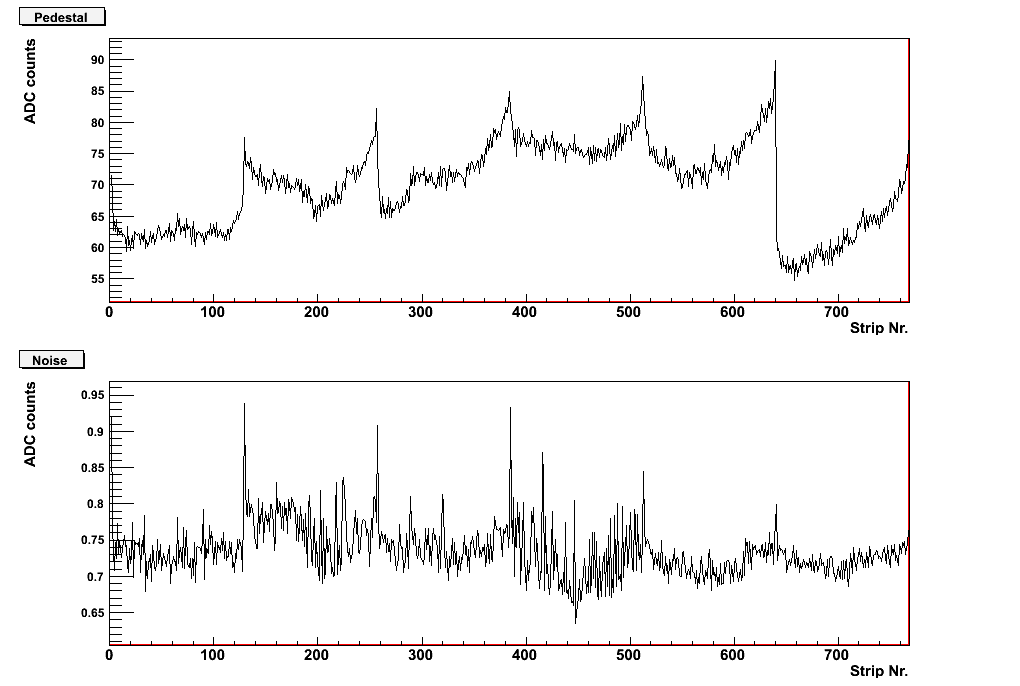
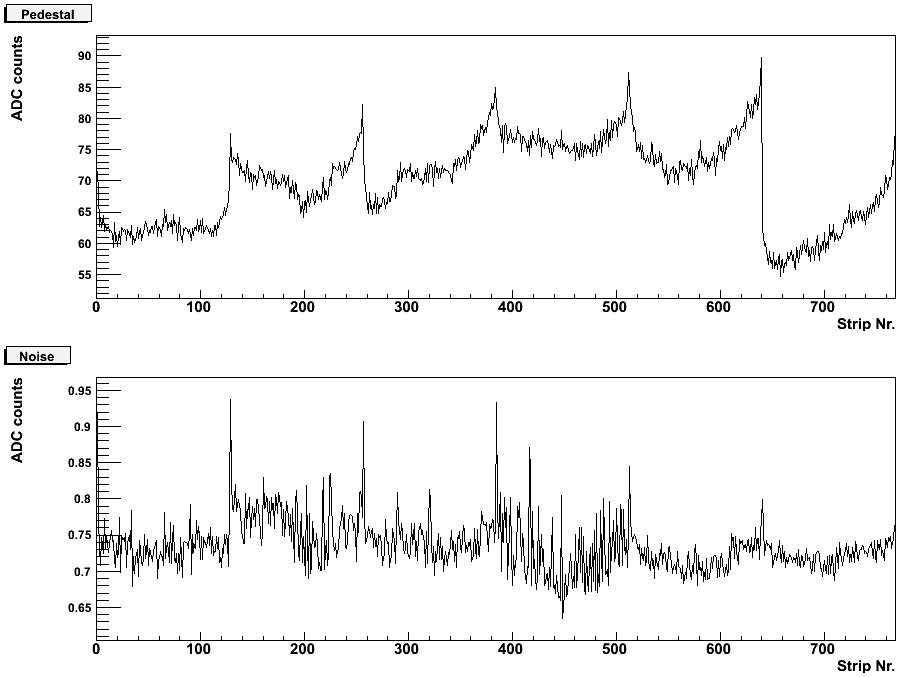
Minor changes and some fig improvements

diff --git a/TSnote/sw.tex b/TSnote/sw.tex
@@ -46,16 +46,16 @@ J_\mathrm{Peltier} = P\cdot\left( T - T_{\rm set}\right) + I \cdot \left( T - T'
 \end{equation}
 where:\\
 - $T_{\rm set}$, target temperature;\\
-- $T$, last temperature reading of the regulation sensor;\\
-- $T'$, preavious temperature reading of the regulation sensor;\\
+- $T$, last temperature reading;\\
+- $T'$, preavious temperature reading;\\
 - $t$, time of last reading;\\
 - $t'$, time of preavious reading;\\
 - $J_\mathrm{Peltier}$, current made flowing into the Peltier element; the sign convention is such that negative current means 'cooling';\\
 - $P$, $I$ and $D$, coefficients of the proportional, integral and differential components of the filter, respectively.
 
-Since the test-station features one temperature sensor per hybrid slot with {\em temperature reading} the maximum temperature read out by the four sensors was intended. For special runs (i.e. without all the four hybrids), ACDC allowed any of the sensors sitting into the test-station to be choosen as regulation sensor.
+The {\em temperature reading} is the temperature choosen as the {\em regulated temperature}, i.e. the temperature to be set at the {\em target temperature}. Since the test-station features one temperature sensor per hybrid slot, the default regulated temperature is just the maximum temperature reading among the four hybrid sensors. For special runs (i.e. without all the four hybrids), ACDC allowed any of the temperatures of the sensors sitting into the test-station to be choosen as regulated temperature.
 
-The values of the filter component coefficients have been choosen to minimize the time to reach the target temperature while keeping under control over/undershoots and oscillations around the $T_{\rm set}$ value. Two different sets of coefficients have been used depending on the $T_{\rm set}$ range, in particular for $T_{\rm set}>0\Cdegree$ and $T_{\rm set}<0\Cdegree$ ({\fixme} may be a more sensible threshold should be $20\Cdegree$ or some value closer to room temperature), as a consequence of the very different performance of the test-station set up in heating and cooling. The coefficient values are given in table~\ref{tab:pidcoeff}. Obviously the test-station set up performances in heating are much better than in cooling. This is reflected in the smaller proportional coefficient and in the bigger differential coefficient in case of $T_{\rm set}>0\Cdegree$ with respect to the $T_{\rm set}<0\Cdegree$ case.
+The values of the filter component coefficients have been choosen to minimize the time to reach the target temperature while keeping under control over/undershoots and oscillations around the $T_{\rm set}$ value. Two different sets of coefficients have been used depending on the $T_{\rm set}$ ranges used for the tests ($T_{\rm set}>10\Cdegree$ and $T_{\rm set}<-10\Cdegree$), as a consequence of the very different performance of the test-station set up in heating and cooling. The coefficient values are given in table~\ref{tab:pidcoeff}. Obviously the test-station set up performances in heating are much better than in cooling. This is reflected in the smaller proportional coefficient and in the bigger differential coefficient in case of $T_{\rm set}>10\Cdegree$ with respect to the $T_{\rm set}<-10\Cdegree$ case.
 Regardless the output of the PID filter, the current is limited within $\pm 14\A$ according to the specifications of the Peltier element.
 
 \begin{table}[h]
@@ -63,10 +63,10 @@ Regardless the output of the PID filter, the current is limited within $\pm 14\A
   \begin{tabular}{r|c|c|c}
                        & $P$ & $I$ & $D$ \\
     $T_{\rm set}$ range & [$\!\A\Cdegree$] & [$\!\A/(\Cdegree\s)$] & [$\!\A\s/\Cdegree$] \\ \hline
-    $T_{\rm set}<0\Cdegree$ & 14.0 & 0.03 & 0.\\
-    $T_{\rm set}>0\Cdegree$ & 8.0 & 0.03 & 18.0\\
+    $T_{\rm set}<-10\Cdegree$ & 14.0 & 0.03 & 0.\\
+    $T_{\rm set}>10\Cdegree$ & 8.0 & 0.03 & 18.0\\
   \end{tabular}
-  \caption{Values of the coefficients of the PID filter.}
+  \caption{Values of the coefficients of the PID filter for the temperature ranges of interest for the test station.}
   \label{tab:pidcoeff}
 \end{table}
 
@@ -82,7 +82,7 @@ An example of a typical temperature cycle is shown in Fig.~\ref{fig:Tcycle}. To 
      \put(-258,318){\mbox{\textcolor{blue}{\sf T$_{\sf set}$}}}
      \put(-255,360){\mbox{{\sf T}}}
    \end{picture}
-    \caption{Test-station temperature cycle: (a) temperature $T$ of the regulation sensor and target temperature $T_{\rm set}$; (b) humidity in the climatic chamber; (c) current in the Peltier element.}
+    \caption{Test-station temperature cycle: (a) regulated temperature $T$ and target temperature $T_{\rm set}$; (b) humidity in the climatic chamber; (c) current in the Peltier element.}
     \label{fig:Tcycle}
   \end{center}
 \end{figure}
@@ -91,5 +91,5 @@ A criterion has been implemented into ACDC to declare the target temperature rea
 \begin{equation}
 \sqrt{\left(T-T_{\rm set} \right)^2 + \left( \tau\cdot\frac{T-T'}{t-t'}\right)^2} < 1\Cdegree,
 \end{equation}
-with the same notation used in eq.~(\ref{eq:pid}). The term proportional to the derivative allows the stability to be estimated within a given time span $\tau$. Within the test-station setup a value of $10\s$ has been chosen for $\tau$.  
+with the same notation used in eq.~(\ref{eq:pid}). The term proportional to the derivative allows the stability to be estimated within the time span $\tau$. Within the test-station setup a value of $10\s$ has been chosen for $\tau$.  
 

diff --git a/TSnote/hw.tex b/TSnote/hw.tex
@@ -112,7 +112,7 @@ A water flow sensor is connected to the water supply to check if the water tap i
 The pitch adapter lines can pick up spurious signal sources since a grounding plane is not present underneath as for the rest of the hybrid. While this feature is useful for intentional signal injection it is counterproductive for the determination of the hybrid noise if external noise sources are present. A reliable measurement of noise is only possible if a grounding and shielding scheme is implemented which avoids the transfer of noise into the APV. The effect a proper grounding and shielding scheme has is shown in figure \ref{fig:hybpa_influence_shielding}.\\
 \begin{figure}
   \begin{center}
-    \resizebox{\textwidth}{!}{\includegraphics{fig/c1_hybpa_noise_shield_comparison.pdf}}
+    \resizebox{0.75\textwidth}{!}{\includegraphics{fig/c1_hybpa_noise_shield_comparison.png}}
 \caption{The noise of an unshielded hybrid with pitch adapter compared with the noise of a hybrid with pitch adapter which was tested inside the test box.}
 \label{fig:hybpa_influence_shielding}
   \end{center}

diff --git a/TSnote/bib.tex b/TSnote/bib.tex
@@ -11,7 +11,7 @@
     hybrids for the CMS silicon tracker}, Proceedings of the 9$^{\rm
     th}$ Workshop on Electronics for LHC Experiments, Amsterdam, The
   Netherlands (2003), http://cdsweb.cern.ch/record/720615.
-\bibitem{apv} M.J. French et al., {\em Design and results from the
+\bibitem{apv} M.J.~French et al., {\em Design and results from the
     APV25, a deep sub-micron CMOS front-end chip for the CMS tracker},
   Nucl. Instr. and Meth. A 466 (2001) 359.
 \bibitem{pll} K.~Kloukinas, A.~Marchioro, P.~Moreira and P.~Placidi,
@@ -36,9 +36,9 @@
 \bibitem{cooli} Cooli - Cold Box Control Serial Interface,
   beissel@physik.rwth-aachen.de, III.Physikalisches Institut B, RWTH
   Aachen (2002).
-\bibitem{db}
-  {\em CMS Tracker Database}, http://cmsdoc.cern.ch/$\sim$cmstrkdb.
 \bibitem{pllmanual} P.~Placidi, A.~Marchioro and P.~Moreira, {\em CMS
     Tracker PLL Reference Manual},
   http://cmstrackercontrol.web.cern.ch (2000).
+\bibitem{db}
+  {\em CMS Tracker Database}, http://cmsdoc.cern.ch/$\sim$cmstrkdb.
 \end{thebibliography}

diff --git a/TSnote/con.tex b/TSnote/con.tex
@@ -1,1 +1,12 @@
 \section{Conclusions}
+
+The test-station designed at CERN for the test of four hybrids plus
+pitch adapter assemblies in the range between room temperature and
+$-20\Cdegree$ has been described together with the testing the methods
+and procedures.
+
+Two replicas of the test-station have been built and setup, one at
+CERN and one in the US. They successfully fullfilled the quality
+control test requirements for the ~15000 hybrid plus pitch adapter
+assemblies needed for the CMS Silicon Strip tracker.
+

diff --git a/TSnote/ack.tex b/TSnote/ack.tex
@@ -1,1 +1,5 @@
 \section{Acknowledgements}
+
+We are grateful to all the engineers and the technicians that worked on
+the project and in paticular to William Glessing, Robert Hammarstr\"om
+and Jeannine Muffat-Joly.
